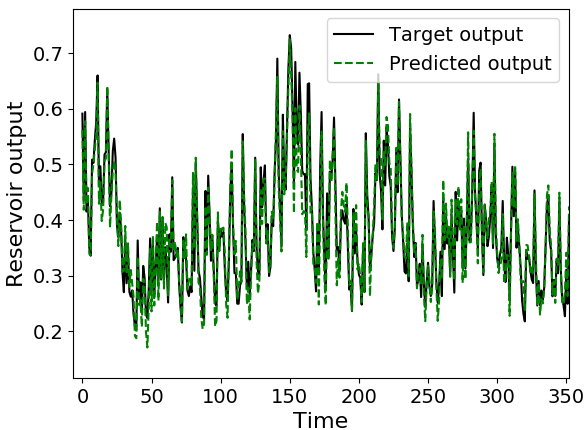
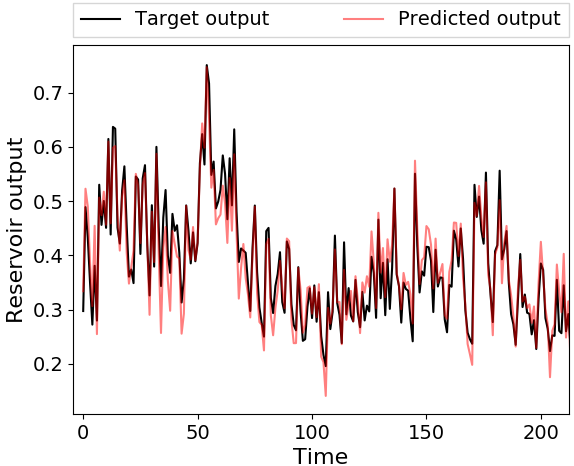
Change NARMA visualization image.

Changed region(s): [[0.0, 0.0, 1.0, 0.9977]]

diff --git a/py/main.py b/py/main.py
@@ -207,8 +207,9 @@ def visualize(dataset, washout=200):
     plt.rc('axes', labelsize=16)
 
     plt.plot(target, 'black', label='Target output')
-    plt.plot(predicted, 'green', linestyle='dashed', label='Predicted output')
-    plt.legend()
+    plt.plot(predicted, 'red', label='Predicted output', alpha=0.5)
+    plt.legend(bbox_to_anchor=(0., 1.02, 1., .102), loc='lower left',
+               ncol=2, mode="expand", borderaxespad=0., fancybox=False)
 
     plt.ylabel('Reservoir output')
     plt.xlabel('Time')
